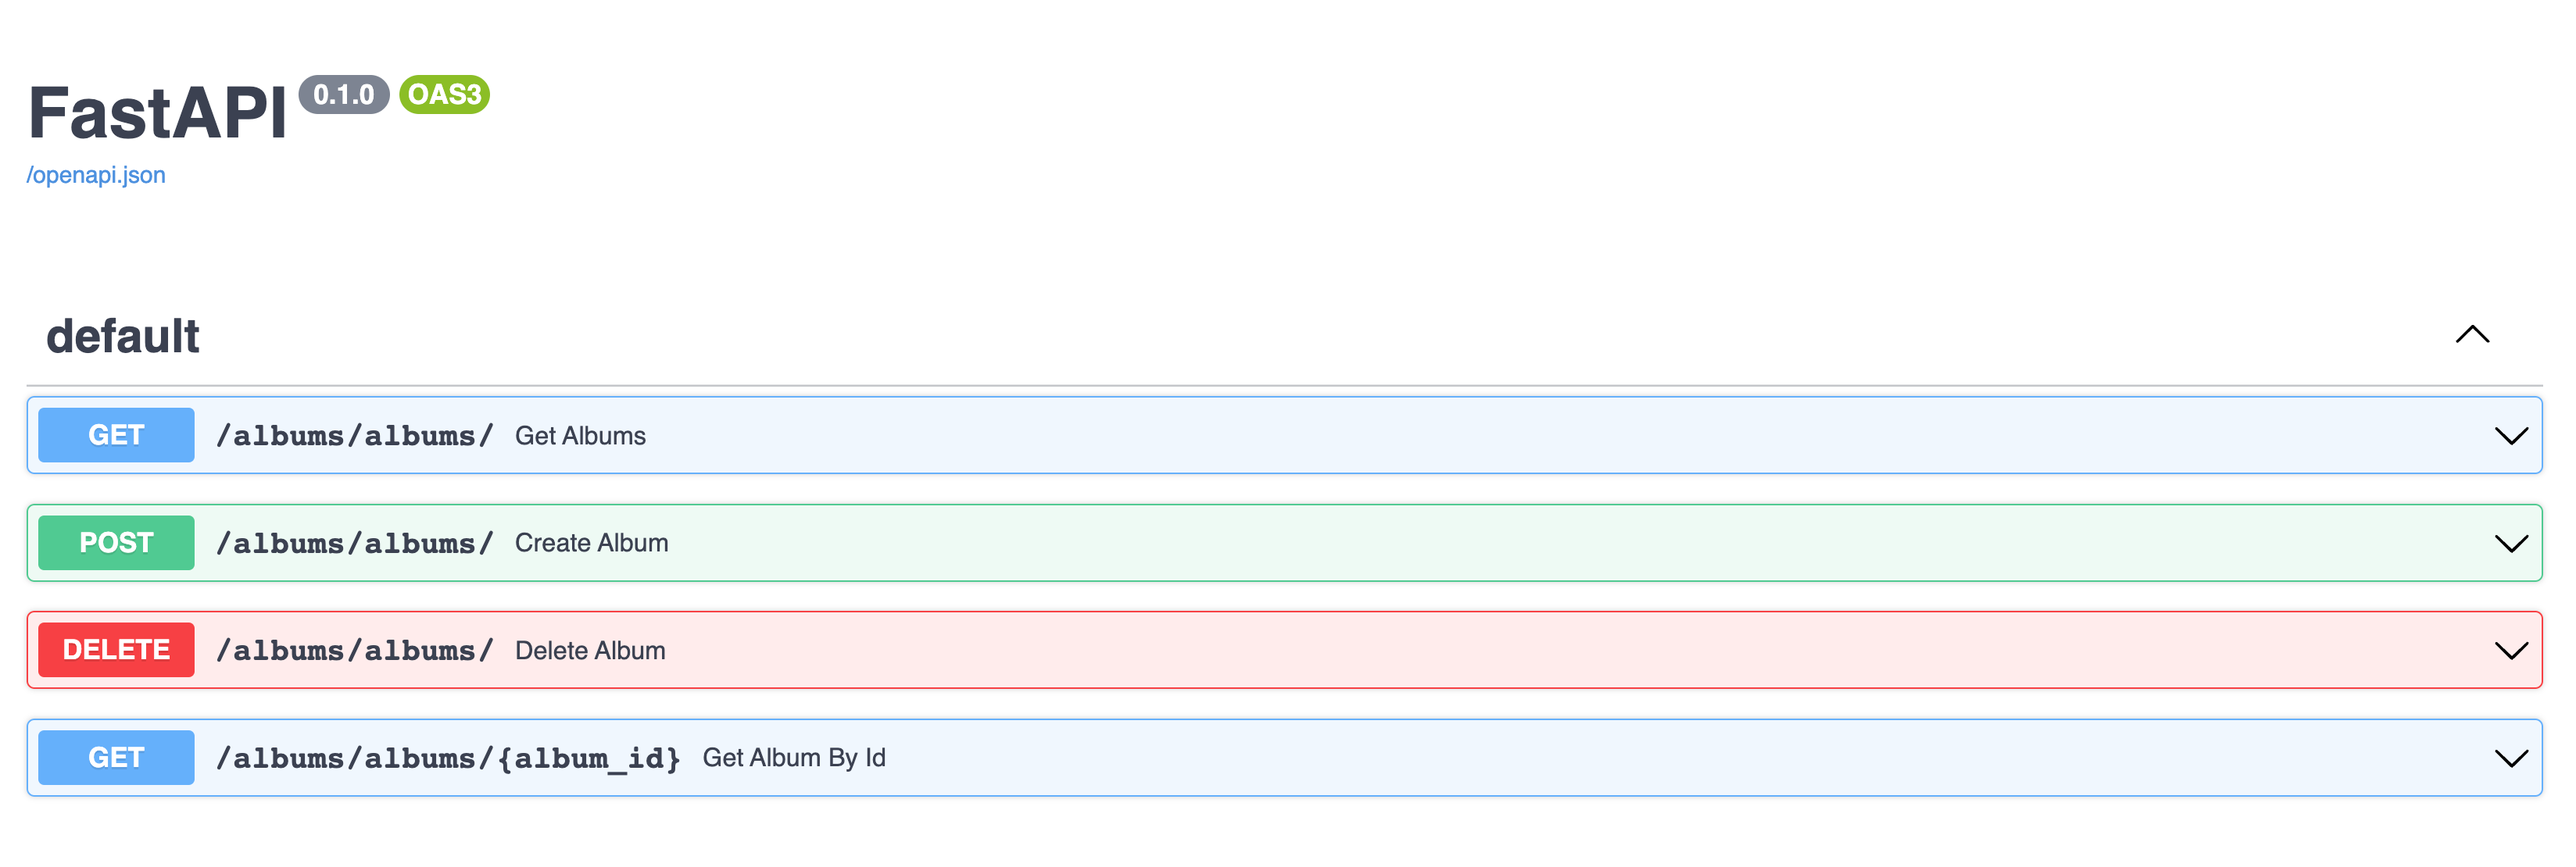
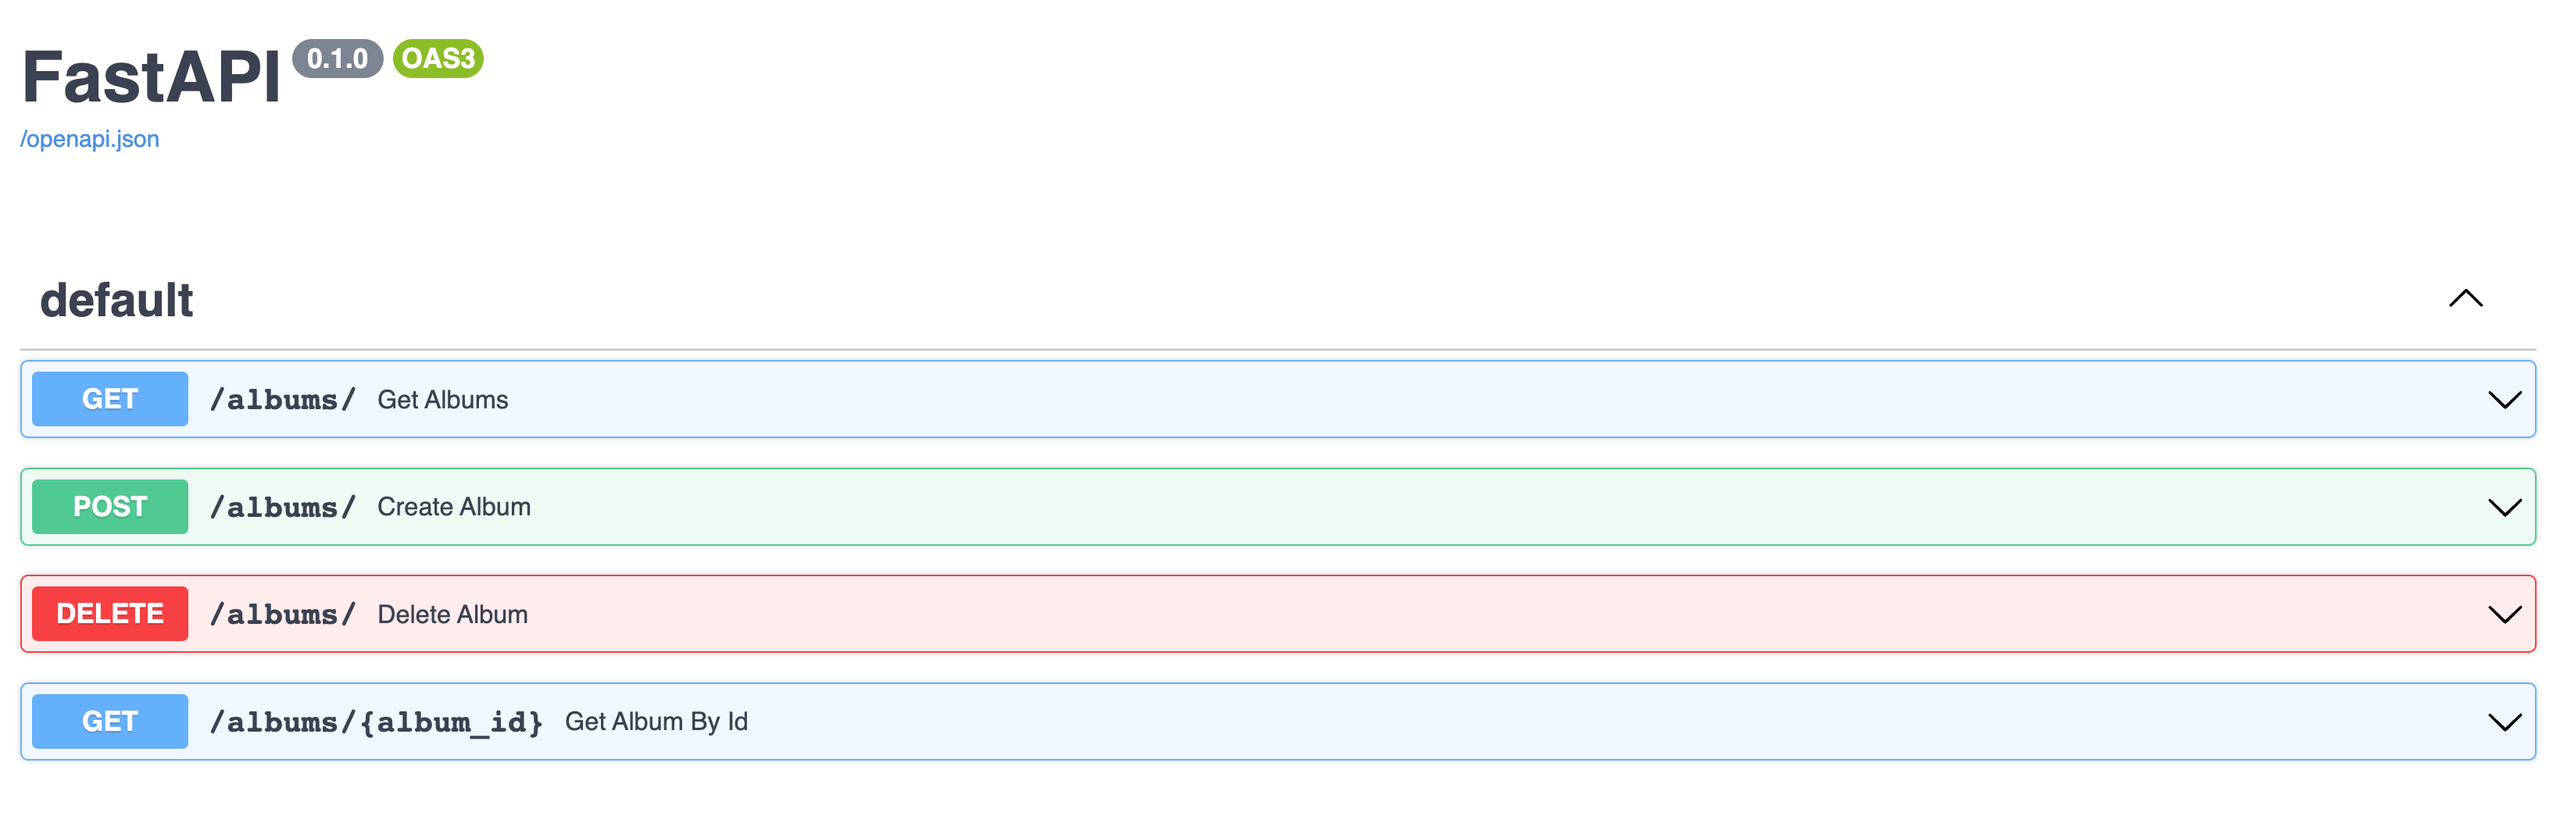
update route

diff --git a/app/routers/album.py b/app/routers/album.py
@@ -6,21 +6,21 @@ from app.services import album_service as service
 router = APIRouter(prefix="/albums")
 
 
-@router.get("/albums/")
+@router.get("/")
 async def get_albums():
     return service.get_albums()
 
 
-@router.get("/albums/{album_id}")
+@router.get("/{album_id}")
 async def get_album_by_id(album_id: str, q: Union[str, None] = None):
     return service.get_album_by_id(album_id=album_id)
 
 
-@router.post("/albums/")
+@router.post("/")
 async def create_album(album: Album):
     return album
 
 
-@router.delete("/albums/")
+@router.delete("/")
 async def delete_album(album: Album):
     return album
